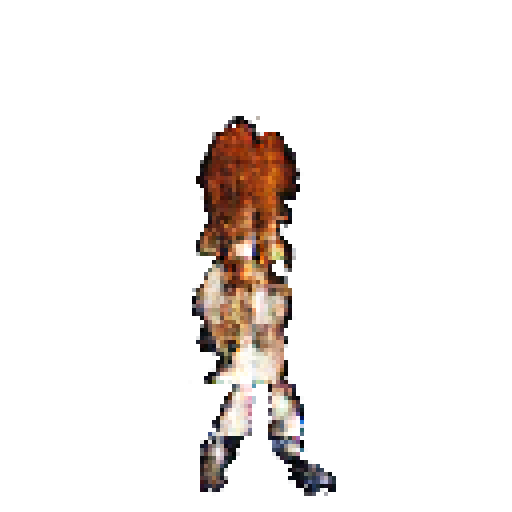
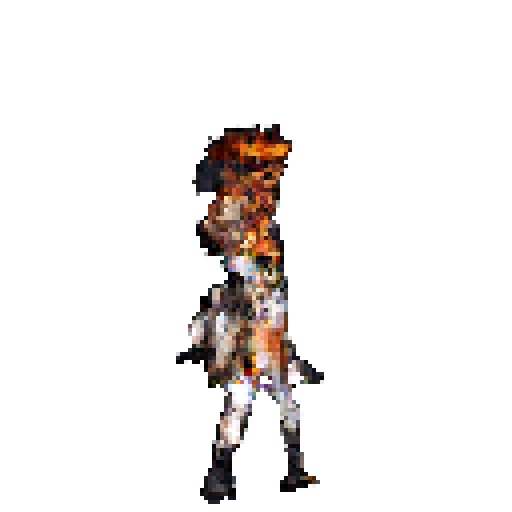
Upgrade gallery to highest evaluated results

Changed region(s): [[0.3438, 0.2188, 0.6562, 1.0]]

diff --git a/README.md b/README.md
@@ -63,13 +63,18 @@ identified sprites. These are memorization checks, not general generators.
 ### 2. Causal action tests: does the verb actually matter?
 
 TMWA Causal16 used matched noise and paired idle/walk examples so changing the
-action token was measurable. It improved from 1,000 to 2,000 steps, but remained an
-in-sample test. The broad semantic model then evaluated identity-disjoint characters:
-it learned rough action/shape cues but not production-quality identity detail.
+action token was measurable. The same Sasquatch walk request is shown at 1,000,
+2,000, and 6,000 steps. The broad semantic model then evaluated identity-disjoint
+characters: it learned rough action/shape cues but not production-quality identity
+detail.
 
-| Exact target | 1,000 steps | 2,000 steps | Broad held-out target | Broad held-out output |
-|---|---|---|---|---|
-| ![Skull Ice walk target](docs/media/studies/03-tmwa-causal-target-skull-ice-walk.png) | ![Skull Ice walk 1000](docs/media/studies/03-tmwa-causal-generated-1000.png) | ![Skull Ice walk 2000](docs/media/studies/03-tmwa-causal-generated-2000.png) | ![TMWA held-out attack target](docs/media/studies/04-tmwa-semantic-target-attack.png) | ![TMWA held-out attack generated](docs/media/studies/04-tmwa-semantic-generated-attack.png) |
+| Exact target | 1,000 steps | 2,000 steps | 6,000 steps |
+|---|---|---|---|
+| ![Sasquatch walk target](docs/media/studies/03-tmwa-causal-target-sasquatch-walk.png) | ![Sasquatch walk 1000](docs/media/studies/03-tmwa-causal-sasquatch-walk-1000.png) | ![Sasquatch walk 2000](docs/media/studies/03-tmwa-causal-sasquatch-walk-2000.png) | ![Sasquatch walk 6000](docs/media/studies/03-tmwa-causal-sasquatch-walk-6000.png) |
+
+| Broad held-out target | Broad held-out output |
+|---|---|
+| ![TMWA held-out attack target](docs/media/studies/04-tmwa-semantic-target-attack.png) | ![TMWA held-out attack generated](docs/media/studies/04-tmwa-semantic-generated-attack.png) |
 
 The broad rectified-flow control did not fix this and is retained as a rejected
 control rather than omitted from the record:
@@ -93,7 +98,7 @@ controls. They provided stronger priors but depend on large separately obtained 
 models and are not the desired consumer-scale architecture. The compact 2x RGBA
 autoencoder instead defines the detail ceiling for scratch-trained latent models.
 
-| SD 1.4 held-out still | AnimateDiff target | AnimateDiff generated | Compact codec reconstruction |
+| SD 1.4 held-out 1k→2.5k comparison | AnimateDiff target | AnimateDiff generated | Compact codec reconstruction |
 |---|---|---|---|
 | ![SD sprite LoRA held-out](docs/media/studies/06-mugen-sd14-lora-heldout.png) | ![AnimateDiff target](docs/media/studies/09-mugen-animatediff-target-attack.png) | ![AnimateDiff generated](docs/media/studies/09-mugen-animatediff-generated-attack.png) | ![RGBA codec reconstruction](docs/media/studies/12-mugen-rgba-autoencoder.png) |
 
@@ -125,20 +130,25 @@ one network to discover appearance, pose, and time simultaneously.
 |---|---|
 | ![Fixed-middle keypose study](docs/media/studies/11-mugen-fixed-middle-keypose.png) | ![Identity U-Net keypose study](docs/media/studies/14-mugen-keypose-unet.png) |
 
-| Anchored trajectory target | Anchored trajectory generated |
+Each anchored comparison contains the target and generated eight-frame trajectory.
+
+| Attack A | Attack B | Block |
+|---|---|---|
+| ![Anchored attack A comparison](docs/media/studies/15-mugen-anchored-attack-a-comparison.png) | ![Anchored attack B comparison](docs/media/studies/15-mugen-anchored-attack-b-comparison.png) | ![Anchored block comparison](docs/media/studies/15-mugen-anchored-block-comparison.png) |
+
+| Idle | Jump | Walk |
+|---|---|---|
+| ![Anchored idle comparison](docs/media/studies/15-mugen-anchored-idle-comparison.png) | ![Anchored jump comparison](docs/media/studies/15-mugen-anchored-jump-comparison.png) | ![Anchored walk comparison](docs/media/studies/15-mugen-anchored-walk-comparison.png) |
+
+### 7. Broad still-image DiT — 40,000-step evaluation
+
+The broad still-image DiT is the active scratch-trained image stage. This is its
+highest completed evaluation gallery at step 40,000. The release includes the
+subsequent step-45,000 EMA weights.
+
+| Broad still target | Generated at step 40,000 |
 |---|---|
-| ![Anchored target](docs/media/studies/15-mugen-anchored-target-attack-b.png) | ![Anchored generated](docs/media/studies/15-mugen-anchored-generated-attack-b.png) |
-
-### 7. Broad still-image model and crash-safe continuation
-
-The broad still-image DiT is the active scratch-trained image stage. This preview is
-from step 20,000 in the same line; the release preserves the later step-45,000 EMA
-and step-47,500 crash-resume state. The visual is deliberately labeled with its real
-step instead of being presented as a later render.
-
-| Broad still target | Generated at step 20,000 |
-|---|---|
-| ![Broad still target](docs/media/studies/13-mugen-broad-still-target.png) | ![Broad still generated at step 20000](docs/media/studies/13-mugen-broad-still-generated.png) |
+| ![Broad still target](docs/media/studies/13-mugen-broad-still-target.png) | ![Broad still generated at step 40000](docs/media/studies/13-mugen-broad-still-generated.png) |
 
 The complete per-study notes and weight mapping remain in
 [`docs/STUDY_GALLERY.md`](docs/STUDY_GALLERY.md), while exact checkpoint names,

diff --git a/docs/STUDY_GALLERY.md b/docs/STUDY_GALLERY.md
@@ -37,13 +37,11 @@ Weight: `multi-identity-pixeldit-3000.pt`
 
 ## 3. TMWA Causal16 PixelDiT
 
-Matched Skull Ice walk replay. The 1,000-to-2,000 comparison uses the same target,
-request order, phases, and noise. The released 6,000-step checkpoint continues this
-same focused causal line; the images below are the most thoroughly audited 1k/2k pair.
+Matched Sasquatch walk replay at 1,000, 2,000, and 6,000 steps.
 
-| Target | 1,000 steps | 2,000 steps |
-|---|---|---|
-| ![Skull Ice walk target](media/studies/03-tmwa-causal-target-skull-ice-walk.png) | ![Skull Ice walk at 1000](media/studies/03-tmwa-causal-generated-1000.png) | ![Skull Ice walk at 2000](media/studies/03-tmwa-causal-generated-2000.png) |
+| Target | 1,000 steps | 2,000 steps | 6,000 steps |
+|---|---|---|---|
+| ![Sasquatch walk target](media/studies/03-tmwa-causal-target-sasquatch-walk.png) | ![Sasquatch walk at 1000](media/studies/03-tmwa-causal-sasquatch-walk-1000.png) | ![Sasquatch walk at 2000](media/studies/03-tmwa-causal-sasquatch-walk-2000.png) | ![Sasquatch walk at 6000](media/studies/03-tmwa-causal-sasquatch-walk-6000.png) |
 
 Weight: `tmwa-causal16-pixeldit-alpha4-6000.pt`
 
@@ -73,7 +71,7 @@ Historical held-out text-to-image adapter. It produced a stronger generic image 
 than the early scratch models but depends on a separately obtained SD 1.4 base and is
 not part of the intended efficient final architecture.
 
-![SD 1.4 sprite LoRA held-out preview](media/studies/06-mugen-sd14-lora-heldout.png)
+![SD 1.4 sprite LoRA held-out target and 1k/2.5k comparison](media/studies/06-mugen-sd14-lora-heldout.png)
 
 Weight: `mugen-sd14-sprite-lora-2500.pt`
 
@@ -140,18 +138,16 @@ latent models. This measures the best detail the downstream latent stages can re
 
 Weight: `mugen-rgba-autoencoder-2x-20000.pt`
 
-## 13. Broad still-image DiT and crash-resume state
+## 13. Broad still-image DiT — 40,000-step evaluation
 
-Representative target/output from the same broad still-image training line. The
-released EMA is step 45,000 and the resume state is step 47,500; this visual was
-exported at step 20,000 and is labeled as such rather than implied to be a later render.
+Highest completed evaluation gallery for the broad still-image training line. The
+release includes the subsequent step-45,000 EMA weights.
 
-| Target | Generated at step 20,000 |
+| Target | Generated at step 40,000 |
 |---|---|
 | ![Broad still target](media/studies/13-mugen-broad-still-target.png) | ![Broad still generated](media/studies/13-mugen-broad-still-generated.png) |
 
-Weights: `mugen-broad-still-dit-ema-45000.pt` and
-`mugen-broad-still-dit-resume-47500.pt`
+Weight: `mugen-broad-still-dit-ema-45000.pt`
 
 ## 14. Identity-conditioned keypose U-Net — 30,000 steps
 
@@ -163,12 +159,16 @@ Weight: `mugen-keypose-identity-unet-30000.pt`
 
 ## 15. Anchored trajectory model — 10,000 steps
 
-Stage-3 experiment conditioned on start/peak/end anchors. The endpoints are explicit,
-but the model can still average the trajectory between them.
+Stage-3 experiment conditioned on start/peak/end anchors. Every canonical action is
+shown below; each image compares the target and generated eight-frame trajectory.
 
-| Target | Generated |
-|---|---|
-| ![Anchored motion target](media/studies/15-mugen-anchored-target-attack-b.png) | ![Anchored motion generated](media/studies/15-mugen-anchored-generated-attack-b.png) |
+| Attack A | Attack B | Block |
+|---|---|---|
+| ![Attack A comparison](media/studies/15-mugen-anchored-attack-a-comparison.png) | ![Attack B comparison](media/studies/15-mugen-anchored-attack-b-comparison.png) | ![Block comparison](media/studies/15-mugen-anchored-block-comparison.png) |
+
+| Idle | Jump | Walk |
+|---|---|---|
+| ![Idle comparison](media/studies/15-mugen-anchored-idle-comparison.png) | ![Jump comparison](media/studies/15-mugen-anchored-jump-comparison.png) | ![Walk comparison](media/studies/15-mugen-anchored-walk-comparison.png) |
 
 Weight: `mugen-anchored-motion-10000.pt`
 

diff --git a/docs/WEIGHTS_RELEASE.md b/docs/WEIGHTS_RELEASE.md
@@ -15,8 +15,7 @@ associated with these studies.
 
 The release has two purposes:
 
-- preserve the current compact three-stage MUGEN pipeline and its resumable Stage-1
-  state;
+- preserve the current compact three-stage MUGEN pipeline;
 - preserve one best or most informative checkpoint from each materially different
   architecture tested during the research.
 
